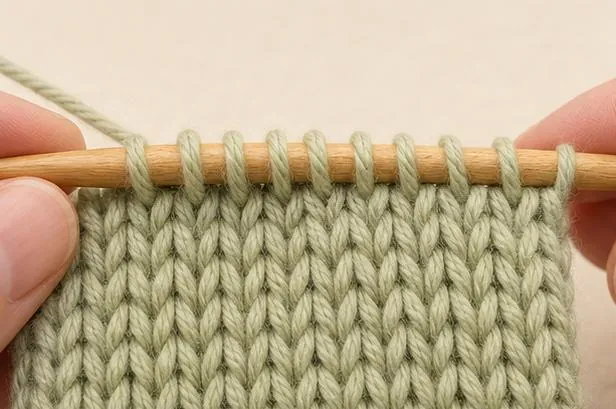
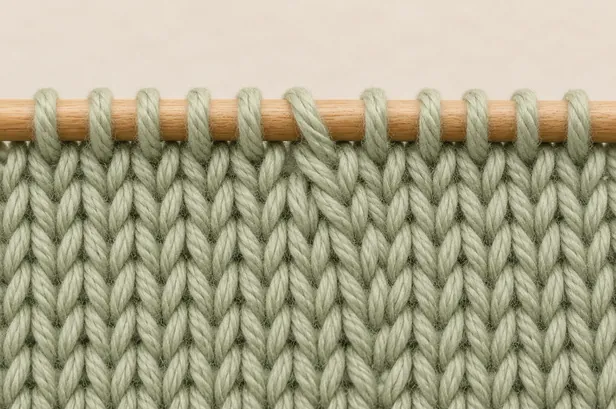
Strick-Begleiter: 11 Fotos an korrigiertes Buch angepasst, neues Cover
Claude-Session: https://claude.ai/code/session_01ExuXfVVnbBSoeNbKpV6ya3

diff --git a/strick-advent/sw.js b/strick-advent/sw.js
@@ -1,6 +1,6 @@
 "use strict";
 
-const CACHE = "strick-begleiter-v1.2.0";
+const CACHE = "strick-begleiter-v1.3.0";
 const SHELL = [
   "./",
   "./index.html",

diff --git a/strick-advent/PROJECT_MEMORY.md b/strick-advent/PROJECT_MEMORY.md
@@ -11,3 +11,4 @@
 - Deployment target: `https://tools.munichpublishing.de/strick-advent/` via the central GitHub Pages repo (checkout `Bonus-App/tmp/central-pages-deploy`). Lead magnet: MailerLite landing page, DOI thank-you button links to this URL.
 - Local QA 2026-10-04 (in-app browser 375×812): home, grid, door 17 all tabs, lightbox, done + note persisted, counter, help search („Kante" → 3 hits), Vor-dem-Start pages, menu; no console errors.
 - Extra für Anfänger (2026-10-27, Sven: Anschlagen fehlt für „Für Anfänger“ auf dem Cover): route `#/anschlagen`, file `anschlagen.js` (window.STRICK_ANSCHLAGEN). Kreuzanschlag in 7 steps up to 12 stitches, drawn SVG illustrations (no AI photos; tail gold, ball yarn red), „Wenn etwas hakt“, button to Türchen 1. Clearly labelled „Extra für Anfänger · Kein Türchen“, not in the book, not one of the 24 doors, not counted in progress. Entry points: home card (only while 0 doors done), first link in „Vor dem Start“, hint in Türchen 1 „Das liegt bereit“, help entry. Shell now styles v=3, app v=3, anschlagen v=1, SW cache `strick-begleiter-v1.2.0`.
+- Photo update 2026-10-28: 11 photos replaced to match the corrected book (Strick_Adventskalender_SW_korrigiert): t01-detail-2, t07-entdecken, t08-detail-2, t09-detail-2, t10-schritt-2, t12-schritt-2, t14-schritt-2, t14-detail-2, t19-entdecken, t21-schritt-1, t22-detail-1. Source: book greyscale photos coloured by Sven in ChatGPT; luminance verified identical to the book. Cover assets (book-cover.jpg, -240/-480.webp) from the new front cover with interior photos. SW cache `strick-begleiter-v1.3.0` so cached old photos are dropped.
